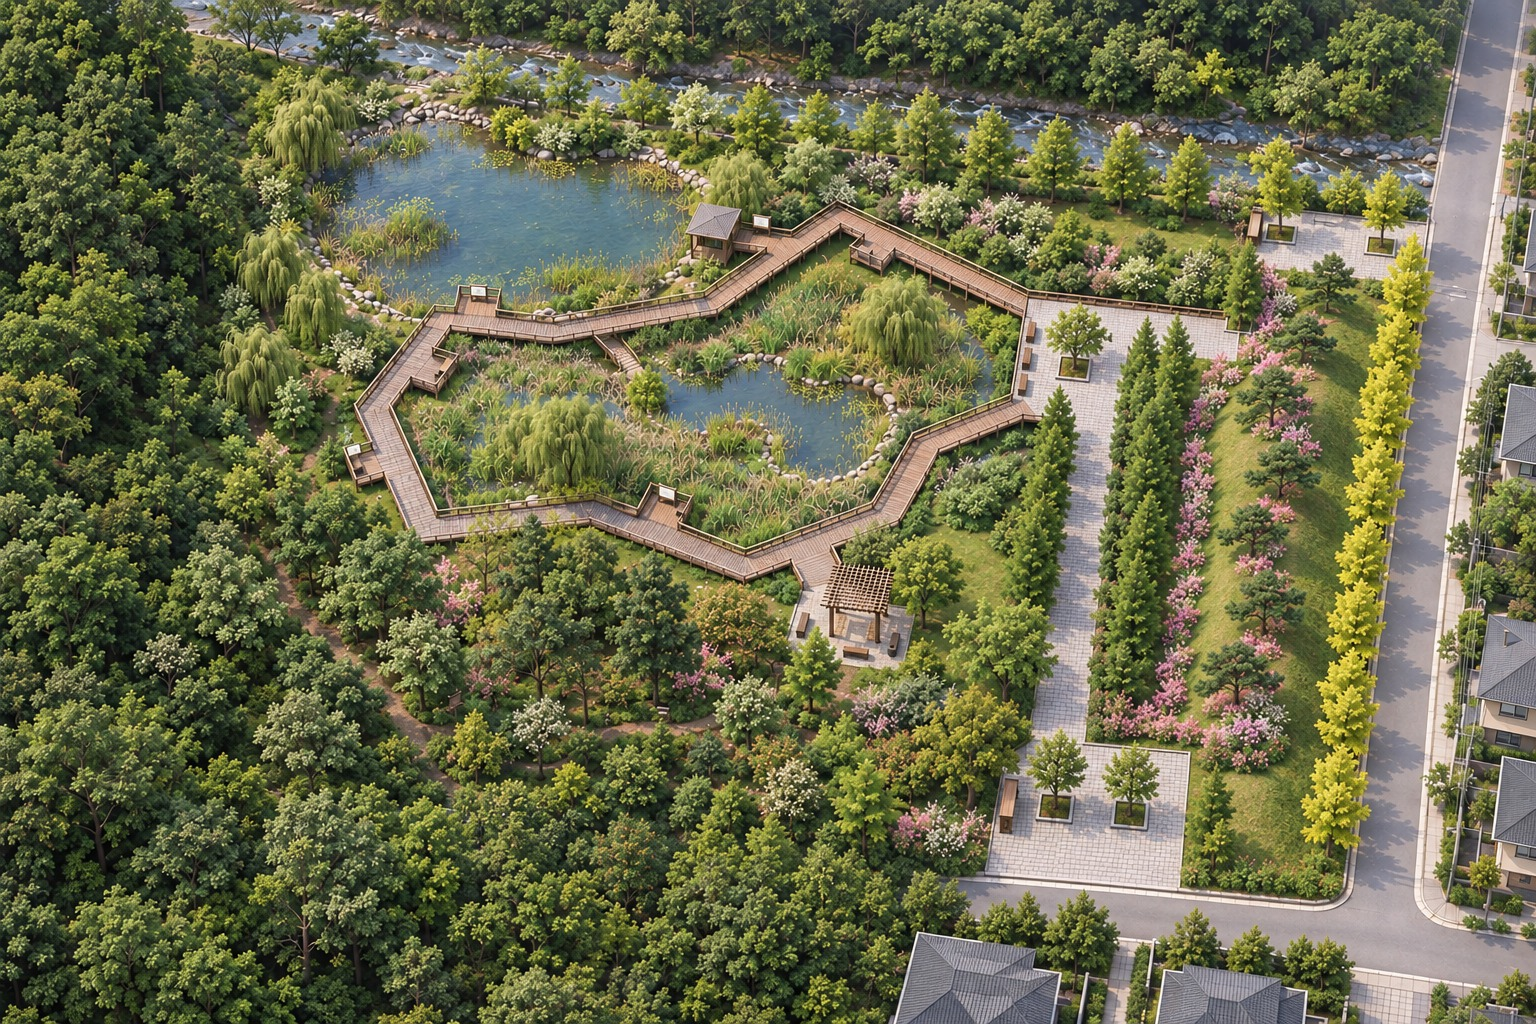
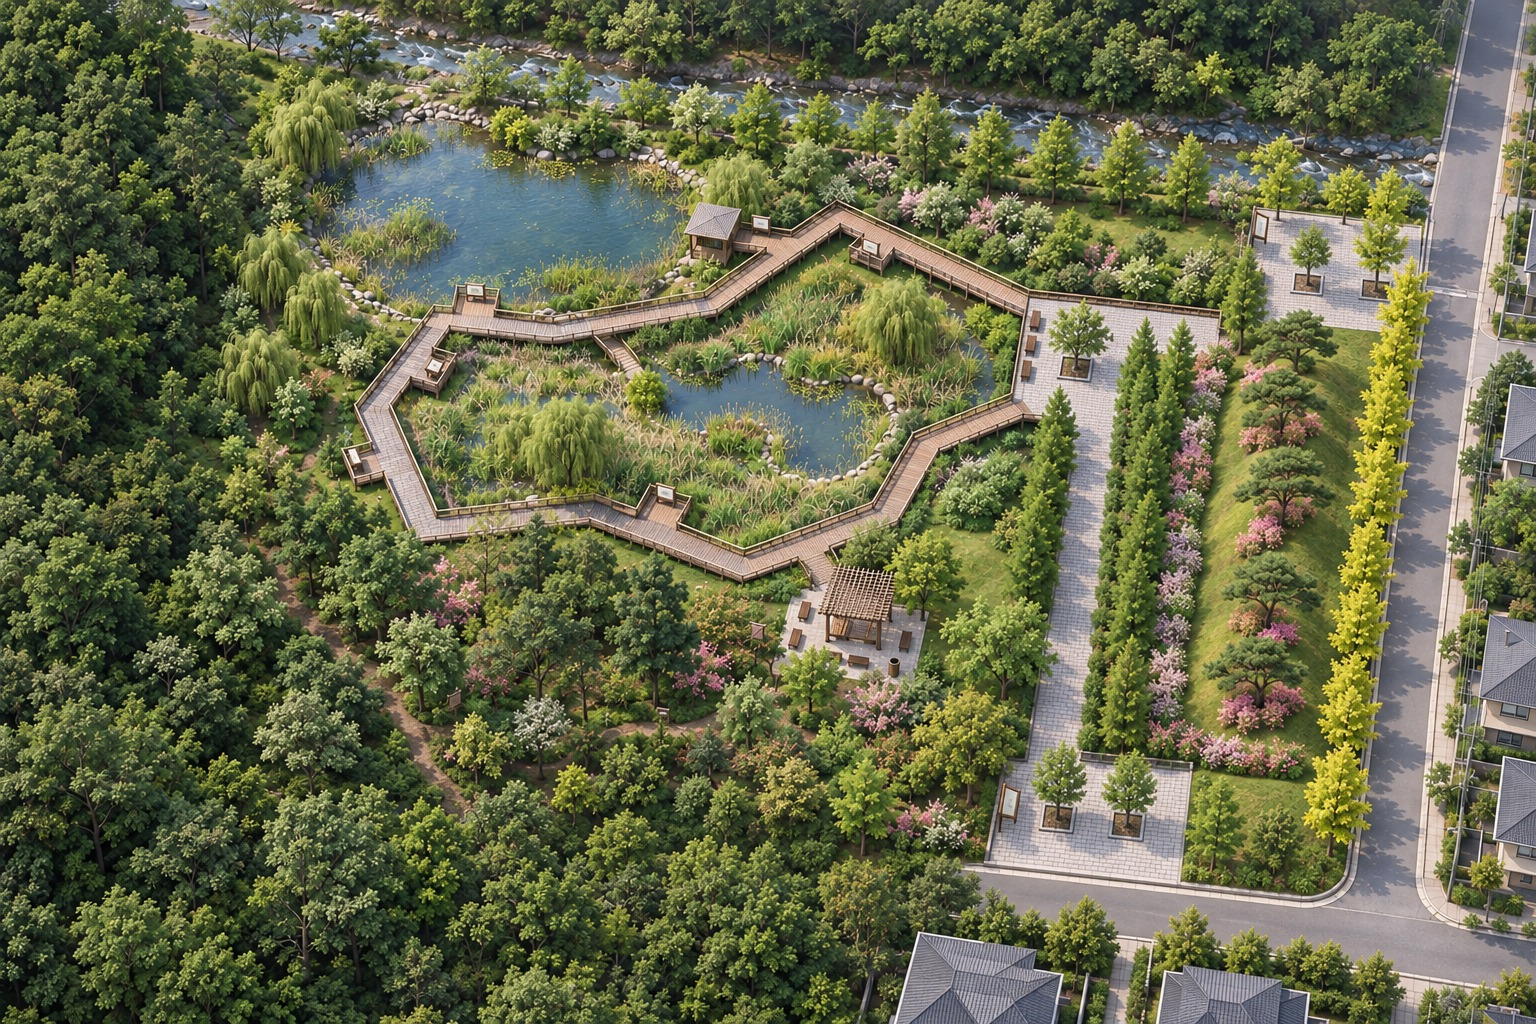
401 세 그림: 진입광장 안내판을 다리 위에 선 판으로 (의자처럼 보이던 것)
앞 회차에 90도 돌리면서 "경계선과 나란히"만 적고 '서 있는 판'이라는 것을
못박지 않아, 판이 누워 뒷면만 보이는 가로 널빤지가 됐다 — 위에서 보면
평의자와 구별이 안 된다는 지적.

방향은 그대로 두고 모양만 고쳤다. "가는 다리 둘 위에 판이 세로로 곧게 서
있고, 아래 모서리가 바닥에서 떠 있으며, 미색 판면이 비스듬히 보이고 바닥에
선 판의 긴 그림자가 진다" + "이 그림의 갈색 평의자(모임광장 3 · 휴게공간 5)와
뚜렷이 달라야 한다 — 걸상은 낮고 앉는 면이 눕지만 안내판은 높이 선 판이라
앉을 자리가 없다". 같은 그림 안의 평의자를 견줄 대상으로 지목한 것이 통했다.

세 그림 모두 조상에서 한 번에. 선명도는 오히려 유지되거나 올랐다:
  조감도     12회차 2942 → 13회차 2958  (기준 2500)
  입체평면도 21회차 1052 → 22회차 1028  (기준 958)
  My 조감도  10회차 1567 → 11회차 1933  (기준 1430, 원본 1900보다 높다)

입체평면도 평행투영 그대로. 판면은 연한 미색에 10배로 확대해도 읽히지 않는
흐린 회색 자국뿐이고, 관찰데크 5 + 조류관찰소 1 은 손대지 않았다.

diff --git a/_ls_drawing_refs/401_조감도/content.md b/_ls_drawing_refs/401_조감도/content.md
@@ -1,5 +1,5 @@
 '성운' 탭의 **답안지 II · 기본설계도**와 **답안지 III · 배식설계도**, 문제지 조건으로 만든 **입체 조감도**입니다.
-**GPT**(gpt-image-2.5-sunburst, 12회차)로 그렸습니다. 남동쪽 상공에서 북서쪽을 내려다본 시점이라 **도면의 북쪽이 그림의 위**입니다 —
+**GPT**(gpt-image-2.5-sunburst, 13회차)로 그렸습니다. 남동쪽 상공에서 북서쪽을 내려다본 시점이라 **도면의 북쪽이 그림의 위**입니다 —
 실개천이 위, 기존수림이 왼쪽, 6m 도로와 주택가가 오른쪽·아래입니다.
 
 ## 만든 방법 — 1회차 그림에서 **한 번에**
@@ -23,12 +23,13 @@
    광장 안쪽을 바라보게 했습니다. ⑭ 빈 미색 판이 오히려 눈을 끌어, 판에 **읽히지 않을 만큼 흐린
    회색 무늬**(윗부분 작은 그림, 아래 글줄 두세 줄)를 넣어 질감을 주었습니다.
    안내판은 도면대로 **진입광장마다 하나씩**입니다
+6. 90° 를 돌리고 나니 판이 **누워** 평의자처럼 보인다는 지적이 나왔습니다(13회차). 방향은 그대로 두고 **다리 위에 곧게 선 판**으로 모양만 고쳤습니다 — 같은 그림의 갈색 평의자와 견줘 뚜렷이 달라야 한다고 적었습니다
 
 > **덧그리기는 곧 화질입니다.** 고칠 것이 생기면 마지막 그림 위에 얹지 말고, **덧그림이 적은 앞 회차로 돌아가
 > 고칠 것을 모두 한 프롬프트에 모아** 다시 그리는 편이 낫습니다. 같은 방식으로 'My' 탭 조감도와 '입체평면도'도 고쳤습니다.
 > 마스크 부분 수정이나 그림을 손으로 자르고 돌리는 일은 하지 않습니다.
 
-## 도면과 대조 (12회차)
+## 도면과 대조 (13회차)
 
 | 도면(성운 답안) | 결과 |
 | --- | --- |
@@ -42,12 +43,13 @@
 | 진입광장 2 — 북동 모서리 · 남측, 종합안내판 1 · 수목보호대 2씩, 소형고압블록 | ✓ 안내판은 서쪽 변, 광장이 도로로 바로 열림. 북동 광장 북쪽 은행나무는 보호대 없이 녹지에 |
 | 두 진입광장을 잇는 남북 동선, 서쪽 메타세쿼이아 열식, 동쪽 마운딩에 소나무 7 · 철쭉, 도로변 은행나무 열식 | ✓ 마운딩은 **봉긋한 잔디 둔덕**이고 서쪽 변과 남쪽 변을 따라 **끊기지 않는 꽃관목 띠**를 둘렀습니다 |
 | 안내판 판면 | ✓ 아주 연한 미색에 **읽히지 않는 흐린 무늬** — 옆 포장과 비슷한 밝기라 도드라지지 않습니다 |
-| 안내판 방향·수 | ✓ 진입광장 안내판은 **포장·관목 경계선과 나란히**(관목을 등지고 광장을 바라봄), 광장마다 **1개씩**. 관찰데크 5 · 조류관찰소 1 은 제 데크 난간과 나란한 그대로 |
+| 안내판 방향·수 | ✓ 진입광장 안내판은 **포장·관목 경계선과 나란히**, 광장마다 **1개씩**. 관찰데크 5 · 조류관찰소 1 은 그대로 |
+| 안내판 모양 | ✓ 안내판은 **다리 위에 곧게 선 판**입니다 — 가로로 누운 널빤지가 아니라서 모임광장·휴게공간의 갈색 평의자와 뚜렷이 구별됩니다. 미색 판면이 비스듬히 보이고 바닥에 선 판의 그림자가 집니다. |
 | 글자 없음 | ✓ |
 
-비용은 12장 약 $0.61 입니다(8~12회차만 `xhigh` 품질이라 장당 $0.074).
+비용은 13장 약 $0.69 입니다(8~13회차만 `xhigh` 품질이라 장당 $0.074).
 
-## 프롬프트 — 마지막 회차(12회차, 참고: 기본설계도 + 배식설계도 + 1회차 그림)
+## 프롬프트 — 마지막 회차(13회차, 참고: 기본설계도 + 배식설계도 + 1회차 그림)
 
 1회차 그림을 함께 주고 고칠 것을 한꺼번에 적은 것입니다. 1~11회차 프롬프트는 뺐습니다.
 
@@ -82,10 +84,16 @@
 
     10. THE OTHER BOARDS ALL STAY. The 5 small blank boards on the 5 observation decks and the 1 blank board beside the timber bird-watching hide at the pond must ALL be there — SIX boards in all, each with a pale off-white panel. Do not delete them, do not move them and do not turn them into benches. The large signboards on the two entrance plazas also stay.
 
-    11. THE TWO ENTRANCE-PLAZA SIGNBOARDS ARE TURNED 90 DEGREES ON THE SPOT.
-    On each entrance plaza the large signboard stands right beside the line where the block paving meets the mass of shrubs at the edge of the plaza. At present the board's LONG EDGE CROSSES that line at a right angle, which looks wrong. TURN EACH OF THE TWO BOARDS 90 DEGREES ABOUT ITS OWN FEET, so that its LONG EDGE RUNS ALONG that paving-and-shrub line, exactly PARALLEL to it. Each board then stands with its BACK TO THE SHRUBS and its FACE LOOKING IN ACROSS THE PLAZA PAVING. Do not move either board from its spot and do not change its size - only its direction changes. Do this on BOTH entrance plazas, the southern one and the north-eastern one.
+    11. THE TWO ENTRANCE-PLAZA SIGNBOARDS ARE UPRIGHT BOARDS ON LEGS - THEY ARE NOT BENCHES.
+    On each entrance plaza the large signboard stands right beside the line where the block paving meets the mass of shrubs at the edge of the plaza, and its LONG EDGE RUNS ALONG that line, parallel to it, with its back to the shrubs. That DIRECTION is correct and must stay exactly as it is.
 
-    DO NOT TOUCH THE BOARDS ON THE BOARDWALK. The 5 small boards on the 5 timber viewing platforms and the 1 board beside the bird-watching hut are ALREADY RIGHT - each runs along its own deck rail. Leave their direction, position and size exactly as they are.
+    What is wrong is its SHAPE: the board has become a flat plank lying face-up on the ground, exactly like a bench. It must instead be a BOARD STANDING UPRIGHT ON TWO SLIM TIMBER LEGS. The panel is held up on edge, its bottom edge well clear of the ground, and from this high viewpoint you see its PALE OFF-WHITE FACE at a slant, tilted towards the plaza, with the LONG SHADOW of the standing panel thrown across the paving beside it.
+
+    IT MUST NOT LOOK LIKE A BENCH. This same picture contains brown timber benches - three on the gathering plaza and five at the pergola rest area. A BENCH is LOW, with a flat seat lying horizontally, and you look down onto its seat. A SIGNBOARD is TALL, stands on edge on its legs, and has nothing to sit on. The two must be unmistakably different at a glance. Never draw a signboard as a flat horizontal plank of timber.
+
+    Do not move either board from its spot, and do not change its size or its direction. Do this on BOTH entrance plazas, the southern one and the north-eastern one.
+
+    DO NOT TOUCH THE BOARDS ON THE BOARDWALK. The 5 small boards on the 5 timber viewing platforms and the 1 board beside the bird-watching hut are ALREADY RIGHT - each stands upright and runs along its own deck rail. Leave their shape, direction, position and size exactly as they are.
 
     WHAT MUST NOT CHANGE:
     - The same camera and the same true perspective: an oblique aerial view from the SOUTH-EAST looking north-west, tilted about 45 degrees, with the stream at the top of the picture. The same framing and crop, the same late-spring daylight and soft shadows, the same colour balance.

diff --git a/_ls_drawing_refs/401_입체평면도/content.md b/_ls_drawing_refs/401_입체평면도/content.md
@@ -1,5 +1,5 @@
 'My' 탭의 색 배치도와 '성운' 탭의 **기본설계도 · 배식설계도**를 GPT 이미지 모델
-(gpt-image-2.5-sunburst)에 주고 만든 **입체평면도**입니다(21회차).
+(gpt-image-2.5-sunburst)에 주고 만든 **입체평면도**입니다(22회차).
 
 '조감도' 탭과 달리 **원근이 없는 평행투영(축측투영)** 입니다. 멀리 있는 것도 가까이 있는 것과
 같은 크기로 그려지므로 **평면도와 그대로 견주어 볼 수 있습니다** — 주택 여덟 채가 모두 같은
@@ -77,6 +77,7 @@
     판의 긴 변이 포장과 관목이 만나는 경계선과 나란해지게 하고(그 전에는 직각), 빈 미색 판이
     눈을 끌지 않도록 **읽히지 않을 만큼 흐린 회색 무늬**를 넣었습니다. 안내판은 **진입광장마다
     하나씩**입니다. 선명도 1052, 평행투영 그대로
+22. 90° 를 돌리고 나니 판이 **누워** 평의자처럼 보인다는 지적 — 방향은 그대로 두고 **다리 위에 곧게 선 판**으로 모양만 고쳤습니다. 선명도 1028, 평행투영 그대로
 
 > 회차마다 색 배치도와 배식설계도를 첫 두 참고 그림으로 다시 주고, 앞 회차 그림을 셋째로 줍니다.
 > 마스크 부분 수정이나 그림을 손으로 자르고 돌리는 일은 하지 않습니다.
@@ -99,7 +100,7 @@
 10회차 1351·1349·1361px, 16회차 1353·1356·1361px 로 같고, 모형 왼쪽 변 기울기도
 10회차 −18px, 16회차 −16px(730px 기준)로 같습니다.
 
-## 도면과 대조 (21회차)
+## 도면과 대조 (22회차)
 
 | 항목 | 도면 | 그림 |
 | --- | --- | --- |
@@ -119,13 +120,14 @@
 | 배식 | 동선 서쪽 메타세쿼이아 열식 · 동쪽 마운딩에 소나무 7 + 철쭉 · 도로변 은행나무 열식 · 산림지구 다층림 · 저수지·관찰로 서쪽은 열린 잔디 | ✓ 마운딩은 잔디 언덕에 소나무 7주(13회차), 서쪽 변과 남쪽 변을 따라 끊기지 않는 꽃관목 띠(16회차) |
 | 안내판 판면 | — | ✓ 아주 연한 미색에 **읽히지 않는 흐린 무늬** — 옆 포장과 비슷한 밝기 |
 | 안내판 방향·수 | — | ✓ 진입광장 안내판은 **포장·관목 경계선과 나란히**, 광장마다 **1개씩**. 관찰데크 5 · 조류관찰소 1 은 그대로 |
+| 안내판 모양 | — | ✓ 안내판은 **다리 위에 곧게 선 판**입니다 — 가로로 누운 널빤지가 아니라서 모임광장·휴게공간의 갈색 평의자와 뚜렷이 구별됩니다. 미색 판면이 비스듬히 보이고 바닥에 선 판의 그림자가 집니다. |
 | 글자 | 없음 | ✓ |
 
 남은 차이는 둘입니다. ① **저수지가 도면보다 조금 동쪽·넓습니다**(도면 부지 폭의 14~44%, 그림 약 19~50%). ② **남측 도로가 55% 지점에서 시작**합니다(도면 50%).
 
-비용은 21장 약 $1.07 입니다(16~21회차만 `xhigh` 품질이라 장당 $0.074).
+비용은 22장 약 $1.14 입니다(16~22회차만 `xhigh` 품질이라 장당 $0.074).
 
-## 프롬프트 — 마지막 회차(21회차, 참고: 색 배치도 + 배식설계도 + 13회차 그림)
+## 프롬프트 — 마지막 회차(22회차, 참고: 색 배치도 + 배식설계도 + 13회차 그림)
 
 13회차 그림을 함께 주고 고칠 넷만 적은 것입니다. 1~20회차 프롬프트는 뺐습니다.
 
@@ -154,10 +156,16 @@
 
     HOW MANY SIGNBOARDS THERE ARE. Each entrance plaza carries EXACTLY ONE signboard, never two - count them: one on the southern entrance plaza, one on the north-eastern entrance plaza. The boardwalk carries 5, one on each of the 5 viewing platforms, and there is 1 beside the bird-watching hut. SEVEN signboards in all in the whole park, no more and no fewer. The gathering plaza has NO signboard at all - it has three timber benches.
 
-    FIX 4 — THE TWO ENTRANCE-PLAZA SIGNBOARDS ARE TURNED 90 DEGREES ON THE SPOT.
-    On each entrance plaza the large signboard stands right beside the line where the block paving meets the mass of shrubs at the edge of the plaza. At present the board's LONG EDGE CROSSES that line at a right angle, which looks wrong. TURN EACH OF THE TWO BOARDS 90 DEGREES ABOUT ITS OWN FEET, so that its LONG EDGE RUNS ALONG that paving-and-shrub line, exactly PARALLEL to it. Each board then stands with its BACK TO THE SHRUBS and its FACE LOOKING IN ACROSS THE PLAZA PAVING. Do not move either board from its spot and do not change its size - only its direction changes. Do this on BOTH entrance plazas, the southern one and the north-eastern one.
+    FIX 4 — THE TWO ENTRANCE-PLAZA SIGNBOARDS ARE UPRIGHT BOARDS ON LEGS - THEY ARE NOT BENCHES.
+    On each entrance plaza the large signboard stands right beside the line where the block paving meets the mass of shrubs at the edge of the plaza, and its LONG EDGE RUNS ALONG that line, parallel to it, with its back to the shrubs. That DIRECTION is correct and must stay exactly as it is.
 
-    DO NOT TOUCH THE BOARDS ON THE BOARDWALK. The 5 small boards on the 5 timber viewing platforms and the 1 board beside the bird-watching hut are ALREADY RIGHT - each runs along its own deck rail. Leave their direction, position and size exactly as they are.
+    What is wrong is its SHAPE: the board has become a flat plank lying face-up on the ground, exactly like a bench. It must instead be a BOARD STANDING UPRIGHT ON TWO SLIM TIMBER LEGS. The panel is held up on edge, its bottom edge well clear of the ground, and from this high viewpoint you see its PALE OFF-WHITE FACE at a slant, tilted towards the plaza, with the LONG SHADOW of the standing panel thrown across the paving beside it.
+
+    IT MUST NOT LOOK LIKE A BENCH. This same picture contains brown timber benches - three on the gathering plaza and five at the pergola rest area. A BENCH is LOW, with a flat seat lying horizontally, and you look down onto its seat. A SIGNBOARD is TALL, stands on edge on its legs, and has nothing to sit on. The two must be unmistakably different at a glance. Never draw a signboard as a flat horizontal plank of timber.
+
+    Do not move either board from its spot, and do not change its size or its direction. Do this on BOTH entrance plazas, the southern one and the north-eastern one.
+
+    DO NOT TOUCH THE BOARDS ON THE BOARDWALK. The 5 small boards on the 5 timber viewing platforms and the 1 board beside the bird-watching hut are ALREADY RIGHT - each stands upright and runs along its own deck rail. Leave their shape, direction, position and size exactly as they are.
 
     SHARPNESS — RENDER THIS FRESH AT FULL RESOLUTION AND FULL DETAIL.
     Do not retouch or resample the third image: draw the whole picture again from scratch. Every part of it must be at least as crisp and as finely detailed as the third image is — the individual leaves in every canopy, the blades and mowing stripes in the turf, the board joints and grain of the boardwalk, the joints of the block paving, the roof tiles of the houses, the pebbles at the water edge. Nothing may come out softer, blurrier, smoother or more washed out than in the third image.
